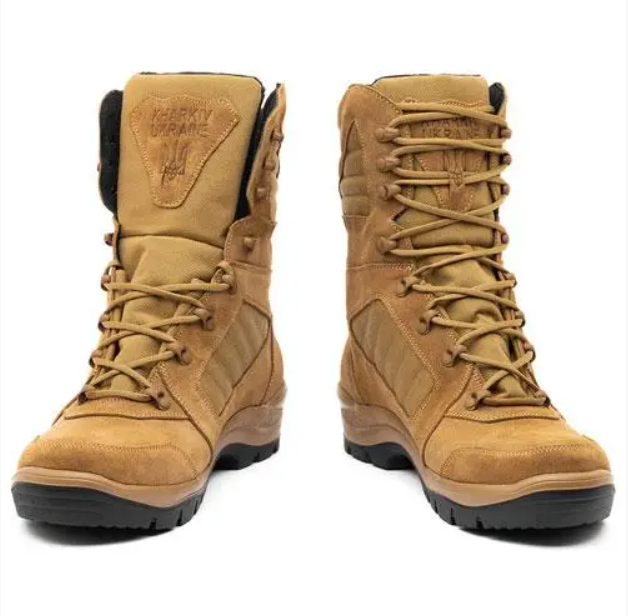
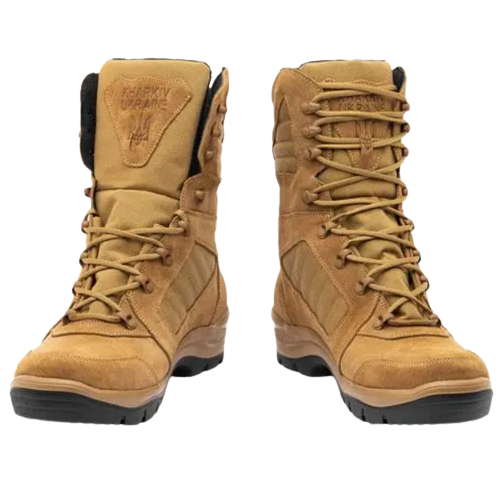
preliminary design

diff --git a/index.html b/index.html
@@ -24,7 +24,7 @@
         <h3>Lorem ipsum, dolor sit amet consectetur adipisicing elit. Dolores, deleniti consequuntur aperiam quas sapiente assumenda tempora maxime perferendis enim iste nulla dolore! Quos facilis aliquam sapiente nostrum molestias incidunt qui.</h3>
         </aside>
         <div class="item">
-            <img src="./IMG/clothet.jpg" alt="">
+            <img src="./IMG/clothet.png" alt="">
             <p>Одяг</p>
             <p class="description">Одноманітний за конструкцією і суворо регламентований на вигляд одяг військовослужбовців.</p>
             <div class="button"><a href="#">Повна інформація</a></div>
@@ -36,7 +36,7 @@
             <div class="button"><a href="#">Повна інформація</a></div>
         </div>
         <div class="item">
-            <img src="./IMG/armor.jpg" alt="">
+            <img src="./IMG/armor.png" alt="">
             <p>Захист</p>
             <p class="description">Сукупність речей, що становлять спорядження військовослужбовців</p>
             <div class="button"><a href="#">Повна інформація</a></div>

diff --git a/CSS/style.css b/CSS/style.css
@@ -4,6 +4,18 @@
   font-family: "Nunito", sans-serif;
 }
 
+:root{
+  --c1: #A4EBED;
+  --c2:#5EEBF0;
+  --c3:#80B8BA;
+  --c4:#4C6D6E;
+  --c5:#2B6B6E;
+}
+
+body{
+  background-color: var(--c3);
+}
+
 header {
   position: fixed;
   top: 0;
@@ -14,6 +26,7 @@ header .menu {
   display: flex;
   justify-content: space-between;
   padding: 5px;
+  margin-left: -10px;
   font-size: 170%;
   background-color: #242323;
   color: white;
@@ -51,9 +64,10 @@ header .menu ul li a:hover {
 }
 
 aside{
-    background-color: gray;
+    background-color: var(--c4);
     max-width: 200px;
     height: 100%;
+    margin-left:-10px;
 }
 
 .item{
@@ -65,7 +79,7 @@ aside{
   width: 400px;
   height: fit-content;
   min-height: 110%;
-  border: 4px solid navy;
+  border: 4px solid var(--c5);
   align-items: center;
   justify-content: space-between;
 }
@@ -84,7 +98,7 @@ aside{
 .item .button {
   background-color: black;
   border-radius: 15px;
-  width: 140px;
+  width: 160px;
   margin:auto;
   margin-bottom: 20px;
   text-align: center;
@@ -97,5 +111,6 @@ aside{
 
 .button a{
   text-decoration: none;
-  color: #a4ebed;
+  color: var(--c2);
+  font-size: 16px;
 }
